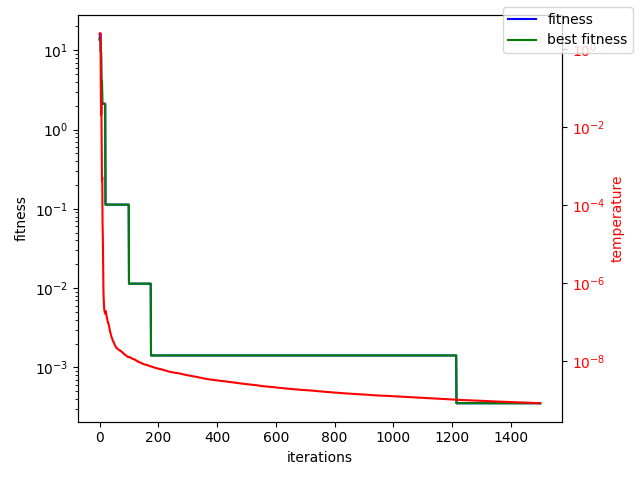
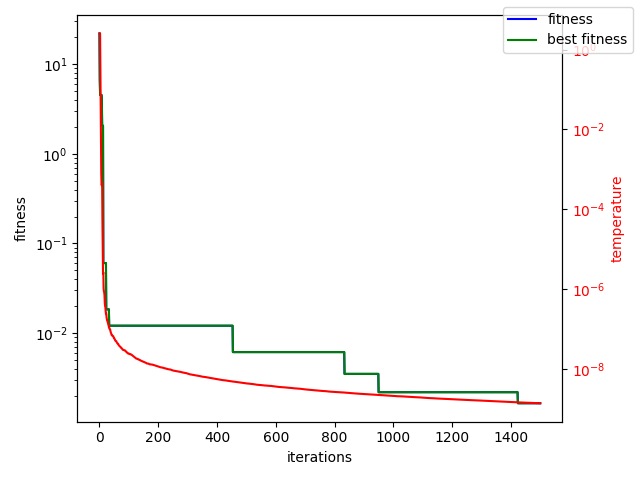
forgot to push runned results

diff --git a/rastrigin.py b/rastrigin.py
@@ -53,7 +53,8 @@ for n in Ns:
     """
     Coral Reef Optimization
     """
-    CRO(lambda x: -rastrigin.fitness(x-2), 5, 6, 0.01, num_generations)
+    for i in range(num_runs):
+        CRO(lambda x: -rastrigin.fitness(x-2), 5, 6, 0.01, num_generations)
     """
     Genetic Algorithm
     """
